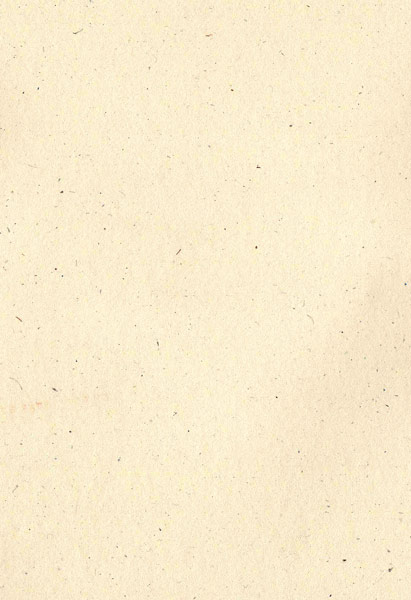
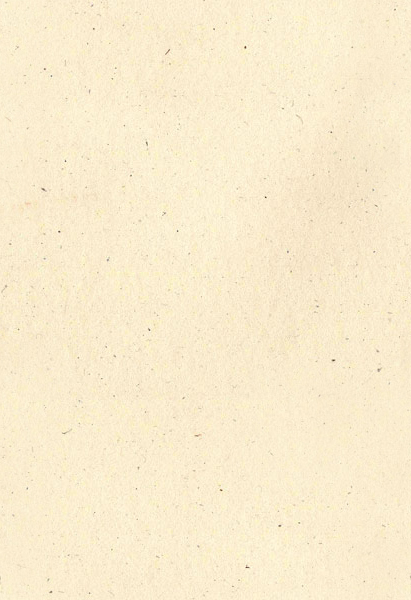
Saving to switch branches

diff --git a/src/app/page.js b/src/app/page.js
@@ -14,7 +14,7 @@ export default function Home() {
     <>
       <div className="polaroidContainer">
         <Polaroid
-          rotate={-5}
+          rotate={0}
           z={1}
           image="guest2"
           imageAlt={
@@ -23,7 +23,7 @@ export default function Home() {
           text="Honestly, our guests are the best people!"
         />
         <Polaroid
-          rotate={0}
+          rotate={5}
           z={2}
           image="wall"
           imageAlt={"the back wall"}
@@ -36,9 +36,23 @@ export default function Home() {
           imageAlt={"Our booth in the lobby"}
           text="We adore drawing couples!"
         />{" "}
+        <Polaroid
+          rotate={9}
+          z={2}
+          image="guest3"
+          imageAlt={"Our booth in the lobby"}
+          text="We adore drawing couples!"
+        />{" "}
+        <Polaroid
+          rotate={10}
+          z={2}
+          image="guest3"
+          imageAlt={"Our booth in the lobby"}
+          text="We adore drawing couples!"
+        />{" "}
       </div>
 
-      <Hours />
+      {/* <Hours /> */}
       <Reviews />
       <div className="promoContainer">
         <ImagePromo
@@ -49,13 +63,13 @@ export default function Home() {
           p="We just love that we can now give you high-quality copies of your
           caricatures."
         />
-        <ImagePromo
+        {/* <ImagePromo
           theme="yellow"
           img="/images/caricatureStickerPromo.png"
           alt="A sample of sticker sheets"
           hdr="Stickers of you"
           p="Our coolest add-on is your very own sticker sheet! Get a Choo Choo sticker, Caricature  Couch sticker, and two stickers of your caricature."
-        />{" "}
+        />{" "} */}
         <ImagePromo
           theme="white"
           alt="A picture of the back entrance to the Chattanooga Choo Choo"

diff --git a/src/app/globals.css b/src/app/globals.css
@@ -149,12 +149,15 @@ h2 {
   display: flex;
   position: relative;
   margin-top: -40px;
-  margin-left: -10%;
+  /* margin-left: -10%; */
   flex-flow: row nowrap;
-  width: 120%;
+  width: 100%;
+  height: fit-content;
   /* border: 2px solid red; */
   overflow: visible;
+  justify-content: center;
   z-index: 2;
+  background-image: url("../../public/images/bg.jpg");
 }
 
 .polaroidContainer > div:nth-child(2) {

diff --git a/src/app/Products/page.jsx b/src/app/Products/page.jsx
@@ -29,7 +29,7 @@ export default function Products() {
           image="guest6"
           imageAlt={"A couple happily displaying their drawing"}
           text="We're all about drawing people together."
-        />
+        />{" "}
       </div>
       <div style={{ margin: "40px 20px" }}>
         <h1 className="pageHeader">We can offer more than ever!</h1>

diff --git a/src/components/styles/header.css b/src/components/styles/header.css
@@ -26,7 +26,7 @@ header {
   height: fit-content;
   margin-top: 15px;
   aspect-ratio: 17 / 7;
-  max-width: 500px;
+  max-width: 300px;
   z-index: 3;
   justify-self: center;
   /* border: 2px solid red; */
@@ -38,6 +38,7 @@ header {
   display: flex;
   flex-flow: row nowrap;
   /* color: var(--rainbowRed); */
+
   gap: 20px;
   color: var(--white);
 }

diff --git a/src/app/Contact/page.jsx b/src/app/Contact/page.jsx
@@ -34,7 +34,7 @@ export default function Contact() {
   function encode(data) {
     return Object.keys(data)
       .map(
-        (key) => encodeURIComponent(key) + "=" + encodeURIComponent(data[key])
+        (key) => encodeURIComponent(key) + "=" + encodeURIComponent(data[key]),
       )
       .join("&");
   }

diff --git a/src/components/styles/mobileMenu.css b/src/components/styles/mobileMenu.css
@@ -90,11 +90,11 @@
 .desktopMenuList {
   display: flex;
   flex-flow: row wrap;
-  justify-content: space-evenly;
+  justify-content: flex-start;
   width: inherit;
   /* padding: 0 20px; */
   margin: 20px 0;
-  gap: 20px;
+  gap: 40px;
   @media (max-width: 1199px) {
     display: none;
   }

diff --git a/src/app/page.module.css b/src/app/page.module.css
@@ -14,7 +14,9 @@
 .siteContainer {
   display: flex;
   flex-flow: column nowrap;
-  max-width: 1500px;
+  /* max-width: 1500px; */
+  width: 100%;
+  border: 1px solid red;
   background: var(--tanLight);
   overflow: visible;
 }

diff --git a/src/components/styles/polaroid.css b/src/components/styles/polaroid.css
@@ -1,7 +1,7 @@
 .polaroid {
   display: flex;
-  width: 100%;
-  height: auto;
+  width: 300px;
+  height: inherit;
   min-width: none;
   flex-flow: column nowrap;
   align-items: center;
